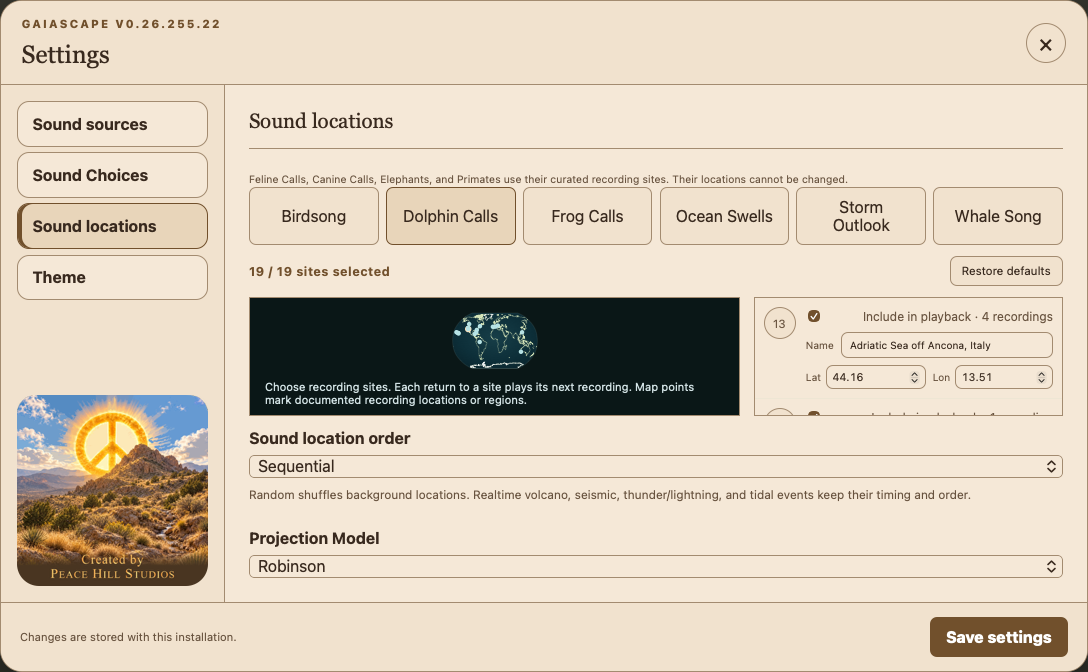
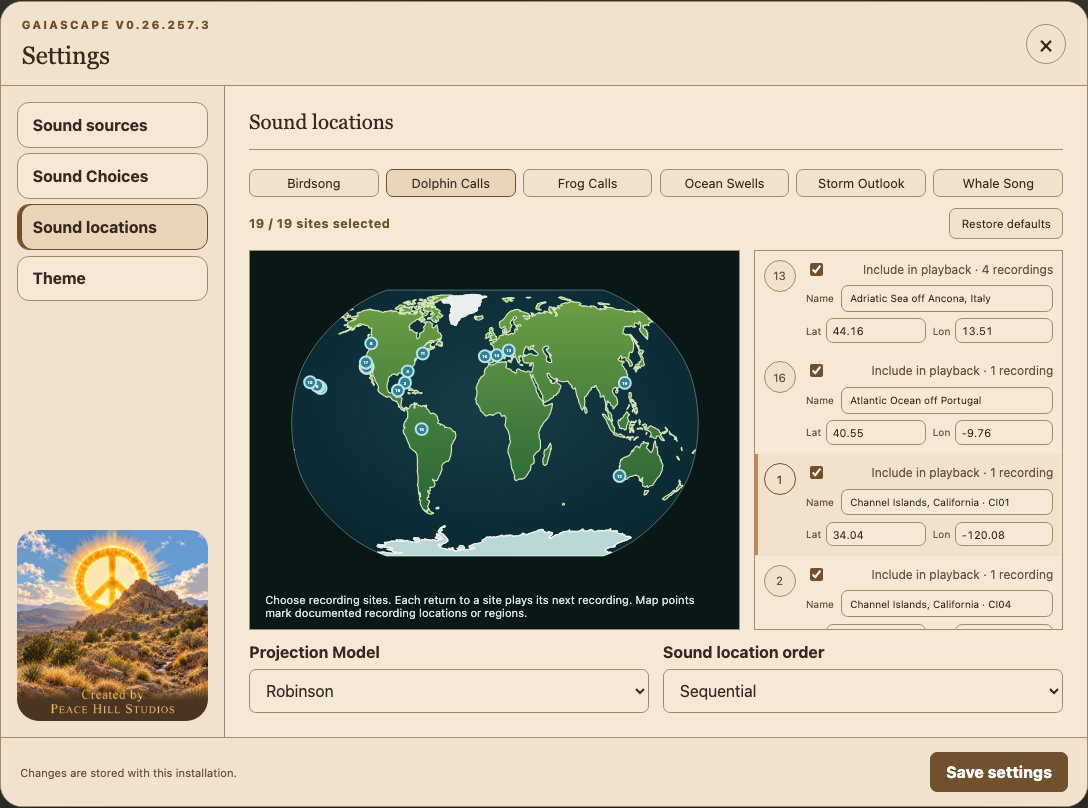
Improve settings dialog layout and refresh guide screenshots

diff --git a/src/gaiascapes_host/static/app.css b/src/gaiascapes_host/static/app.css
@@ -249,7 +249,8 @@ button.quiet { padding: 7px 10px; color: var(--muted); background: transparent; 
 .source-credentials label { display: grid; grid-template-columns: minmax(0, 1fr); min-width: 0; gap: .2rem; color: var(--ink); font-size: .65rem; font-weight: 700; }
 .source-credentials label[hidden] { display: none; }
 .source-credentials input, .source-credentials select { width: 100%; min-width: 0; padding: .4rem .45rem; border: 1px solid var(--line); background: #08100d; color: var(--ink); font: inherit; }
-.settings-dialog:has([data-pane="sources"]:not([hidden])) { height: min(54rem, calc(100vh - 2rem)); }
+.settings-dialog:has([data-pane="sources"]:not([hidden]), [data-pane="instruments"]:not([hidden])) { height: min(54rem, calc(100vh - 2rem)); }
+.settings-dialog:has([data-pane="locations"]:not([hidden]), [data-pane="theme"]:not([hidden])) { height: min(50.4rem, calc(100vh - 2rem)); }
 .settings-pane[data-pane="sources"] { padding-block: .75rem; }
 .settings-pane[data-pane="sources"] .pane-heading { padding-bottom: .5rem; margin-bottom: .75rem; }
 .settings-pane[data-pane="sources"] .settings-tip { margin-top: .75rem; font-size: .65rem; padding: .6rem; }
@@ -292,7 +293,7 @@ button.quiet { padding: 7px 10px; color: var(--muted); background: transparent; 
 .location-settings-pane { display: flex; flex-direction: column; overflow: hidden; }
 .location-settings-pane > .pane-heading { flex: 0 0 auto; }
 .location-editor-tabs { display: flex; gap: .45rem; }
-.location-editor-tabs button { flex: 1 1 0; }
+.location-editor-tabs button { flex: 1 1 0; min-width: 0; padding: .35rem .45rem; font-size: .8rem; }
 .location-editor-tabs button.is-active { color: var(--ink); border-color: rgba(106,181,189,.66); background: rgba(50,127,148,.2); }
 .location-editor-toolbar { display: flex; align-items: center; justify-content: space-between; gap: 1rem; margin: .7rem 0; }
 .location-editor-toolbar strong { color: var(--moss); font-size: .78rem; letter-spacing: .04em; }
@@ -318,7 +319,8 @@ button.quiet { padding: 7px 10px; color: var(--muted); background: transparent; 
 .forecast-coordinate-input input { width: 100%; min-width: 0; padding: .3rem .35rem; background: #101b17; font-size: .68rem; font-variant-numeric: tabular-nums; }
 .forecast-location-name { display: grid; grid-template-columns: auto minmax(0, 1fr); align-items: center; gap: .45rem; color: var(--muted); font-size: .63rem; }
 .forecast-location-name input { width: 100%; min-width: 0; padding: .4rem .5rem; background: #101b17; }
-.location-settings-pane > .settings-field { flex: 0 0 auto; margin-top: .8rem; }
+.location-editor-options { display: grid; grid-template-columns: repeat(2, minmax(0, 1fr)); flex: 0 0 auto; gap: .85rem; margin-top: .8rem; }
+.location-editor-options .settings-field { min-width: 0; }
 .modal-footer { flex: 0 0 auto; display: flex; align-items: center; justify-content: space-between; gap: 1rem; min-height: 4.3rem; padding: .8rem 1.2rem; border-top: 1px solid var(--line); background: #0c1511; }
 .modal-footer p { color: var(--muted); font-size: .7rem; }
 .modal-footer > div { display: flex; gap: .55rem; }
@@ -361,7 +363,6 @@ button.quiet { padding: 7px 10px; color: var(--muted); background: transparent; 
 }
 
 /* Compact artwork preserves tile widths and leaves room for both rows. */
-.settings-dialog:has([data-pane="instruments"]:not([hidden])) { height: min(64rem, calc(100vh - 2rem)); }
 .settings-pane[data-pane="instruments"] { padding-block: .75rem; }
 .settings-pane[data-pane="instruments"] .pane-heading { padding-bottom: .5rem; margin-bottom: .6rem; }
 .background-sound-row > .sound-tile { grid-column: 3; }
@@ -572,7 +573,6 @@ main.has-animal > [data-app-view] { grid-column: 2; grid-row: 2; min-width: 0; }
 .status-card-heading select { flex: 0 0 auto; max-width: 100%; font: inherit; font-size: .72rem; padding: 4px 6px; border: 1px solid var(--line); border-radius: 6px; color: var(--ink); background: var(--panel); }
 .status-card-details[hidden] { display: none; }
 
-.location-order-note { color: var(--muted); font-size: .74rem; line-height: 1.4; margin-block: .5rem .85rem; }
 
 #animalImageVisibility { display: block; width: auto; margin: 0 auto 8px; font: inherit; font-size: .72rem; border: 1px solid var(--line); border-radius: 6px; padding: 3px 6px; }
 #animalImageDetails[hidden] { display: none; }

diff --git a/src/gaiascapes_host/templates/index.html b/src/gaiascapes_host/templates/index.html
@@ -337,7 +337,6 @@
           </section>
           <section class="settings-pane location-settings-pane" data-pane="locations" hidden>
             <div class="pane-heading"><div class="sound-location-heading"><h3>Sound locations</h3><span id="soundLocationCoordinates" aria-live="polite" hidden></span></div></div>
-            <p class="units-note">Feline Calls, Canine Calls, Elephants, and Primates use their curated recording sites. Their locations cannot be changed.</p>
             <div class="location-editor-tabs" role="group" aria-label="Sound catalog">
               <button type="button" title="Choose Xeno-canto in Sound Sources to edit Birdsong regions. Recordings come from within 100 km of each point." data-location-catalog="birdsong">Birdsong</button>
               <button type="button" title="Choose verified dolphin recording sites." data-location-catalog="dolphin_calls">Dolphin Calls</button>
@@ -367,15 +366,16 @@
               </div>
               <div class="forecast-location-list" id="forecastLocationList" aria-label="Editable sound locations"></div>
             </div>
-            <label class="settings-field" for="soundLocationOrder"><span>Sound location order</span><select id="soundLocationOrder">
-              <option value="sequential" {% if sound_location_order == "sequential" %}selected{% endif %}>Sequential</option>
-              <option value="random" {% if sound_location_order == "random" %}selected{% endif %}>Random</option>
-            </select></label>
-            <p class="location-order-note">Random shuffles background locations. Realtime volcano, seismic, thunder/lightning, and tidal events keep their timing and order.</p>
-            <label class="settings-field" for="mapProjection"><span>Projection Model</span><select id="mapProjection">
-              <option value="robinson" {% if map_projection == "robinson" %}selected{% endif %}>Robinson</option>
-              <option value="eckert_iv" {% if map_projection == "eckert_iv" %}selected{% endif %}>Eckert IV</option>
-            </select></label>
+            <div class="location-editor-options">
+              <label class="settings-field" for="mapProjection"><span>Projection Model</span><select id="mapProjection">
+                <option value="robinson" {% if map_projection == "robinson" %}selected{% endif %}>Robinson</option>
+                <option value="eckert_iv" {% if map_projection == "eckert_iv" %}selected{% endif %}>Eckert IV</option>
+              </select></label>
+              <label class="settings-field" for="soundLocationOrder"><span>Sound location order</span><select id="soundLocationOrder">
+                <option value="sequential" {% if sound_location_order == "sequential" %}selected{% endif %}>Sequential</option>
+                <option value="random" {% if sound_location_order == "random" %}selected{% endif %}>Random</option>
+              </select></label>
+            </div>
           </section>
         </div>
       </div>

diff --git a/tests/test_location_order.py b/tests/test_location_order.py
@@ -21,7 +21,7 @@ def test_location_order_persists_and_rejects_invalid_values(tmp_path):
     assert client.put('/api/settings/locations', json={'sound_location_order':'random'}).status_code == 200
     assert AppConfig.load(tmp_path/'config.json').sound_location_order == 'random'
     html = client.get('/').text
-    assert html.index('id="soundLocationOrder"') < html.index('id="mapProjection"')
+    assert html.index('id="mapProjection"') < html.index('id="soundLocationOrder"')
     assert client.put('/api/settings/locations', json={'sound_location_order':'invalid'}).status_code == 422
     assert AppConfig.load(tmp_path/'config.json').sound_location_order == 'random'
 

diff --git a/src/gaiascapes/__init__.py b/src/gaiascapes/__init__.py
@@ -4,7 +4,7 @@ The package exports normalized events and score-building primitives that can
 be reused without the host service, capture providers, or audio renderer.
 """
 
-__version__ = "v0.26.256.4"
+__version__ = "v0.26.257.3"
 
 from .events import GaiaEvent
 from .score import ScoreCue, build_score

diff --git a/USER_GUIDE.md b/USER_GUIDE.md
@@ -266,7 +266,7 @@ Open **Settings → Sound locations**. The catalog tabs are alphabetized: Birdso
 
 ### Editable location catalogs
 
-![Ocean Swells location editor with numbered markers, names, coordinates, and projection setting](docs/images/user-guide/07-ocean-locations.png)
+![Ocean Swells location editor with numbered markers, names, coordinates, and side-by-side projection and location order settings](docs/images/user-guide/07-ocean-locations.png)
 
 Ocean Swells, Storm Outlook, Frog Calls, and Birdsong using Xeno-canto each have **19 locations**. These catalogs are independent.
 
@@ -423,7 +423,7 @@ updates remain hidden until the player selects Reveal.
 
 ### Sound location order
 
-In **Sound locations**, choose **Sequential** (the default) or **Random** above
+In **Sound locations**, choose **Sequential** (the default) or **Random** beside
 Projection Model, then save settings. Random visits each background location once
 per shuffled round, then reshuffles; recordings continue to the next clip at each
 site on subsequent rounds. It applies to birds, frogs, whales, dolphins, the mammal collections, ocean
